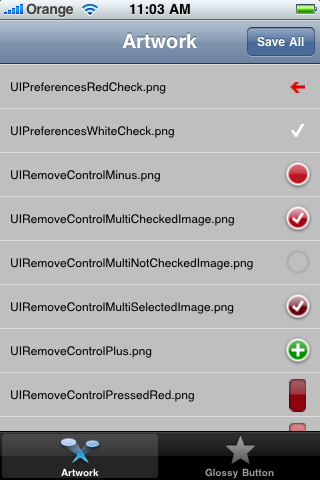
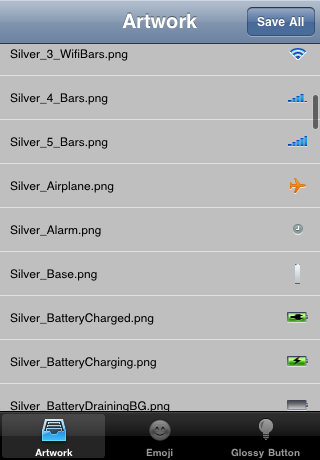
Update README and screenshots

Changed region(s): [[0.0, 0.0, 1.0, 1.0]]

diff --git a/README.md b/README.md
@@ -1,5 +1,5 @@
 # UIKit Artwork #
-*UIKit Artwork Extractor* extracts all the artwork contained in UIKit into png files.
+*UIKit Artwork Extractor* extracts all the artwork and emoji symbols contained in UIKit into png files.
 
 The png files are saved into `~/Desktop/UIKit Artwork Extractor-version` where *version* is the SDK version.
 
@@ -9,4 +9,5 @@ The png files are saved into `~/Desktop/UIKit Artwork Extractor-version` where *
 # Screenshots #
 ![Artwork](http://github.com/0xced/UIKit-Artwork-Extractor/raw/master/Screenshots/Artwork.png "Artwork")
 ![UISwitch](http://github.com/0xced/UIKit-Artwork-Extractor/raw/master/Screenshots/UISwitch.png "UISwitch")
+![Emoji](http://github.com/0xced/UIKit-Artwork-Extractor/raw/master/Screenshots/Emoji.png "Emoji")
 ![Glossy Button](http://github.com/0xced/UIKit-Artwork-Extractor/raw/master/Screenshots/GlossyButton.png "Glossy Button")
